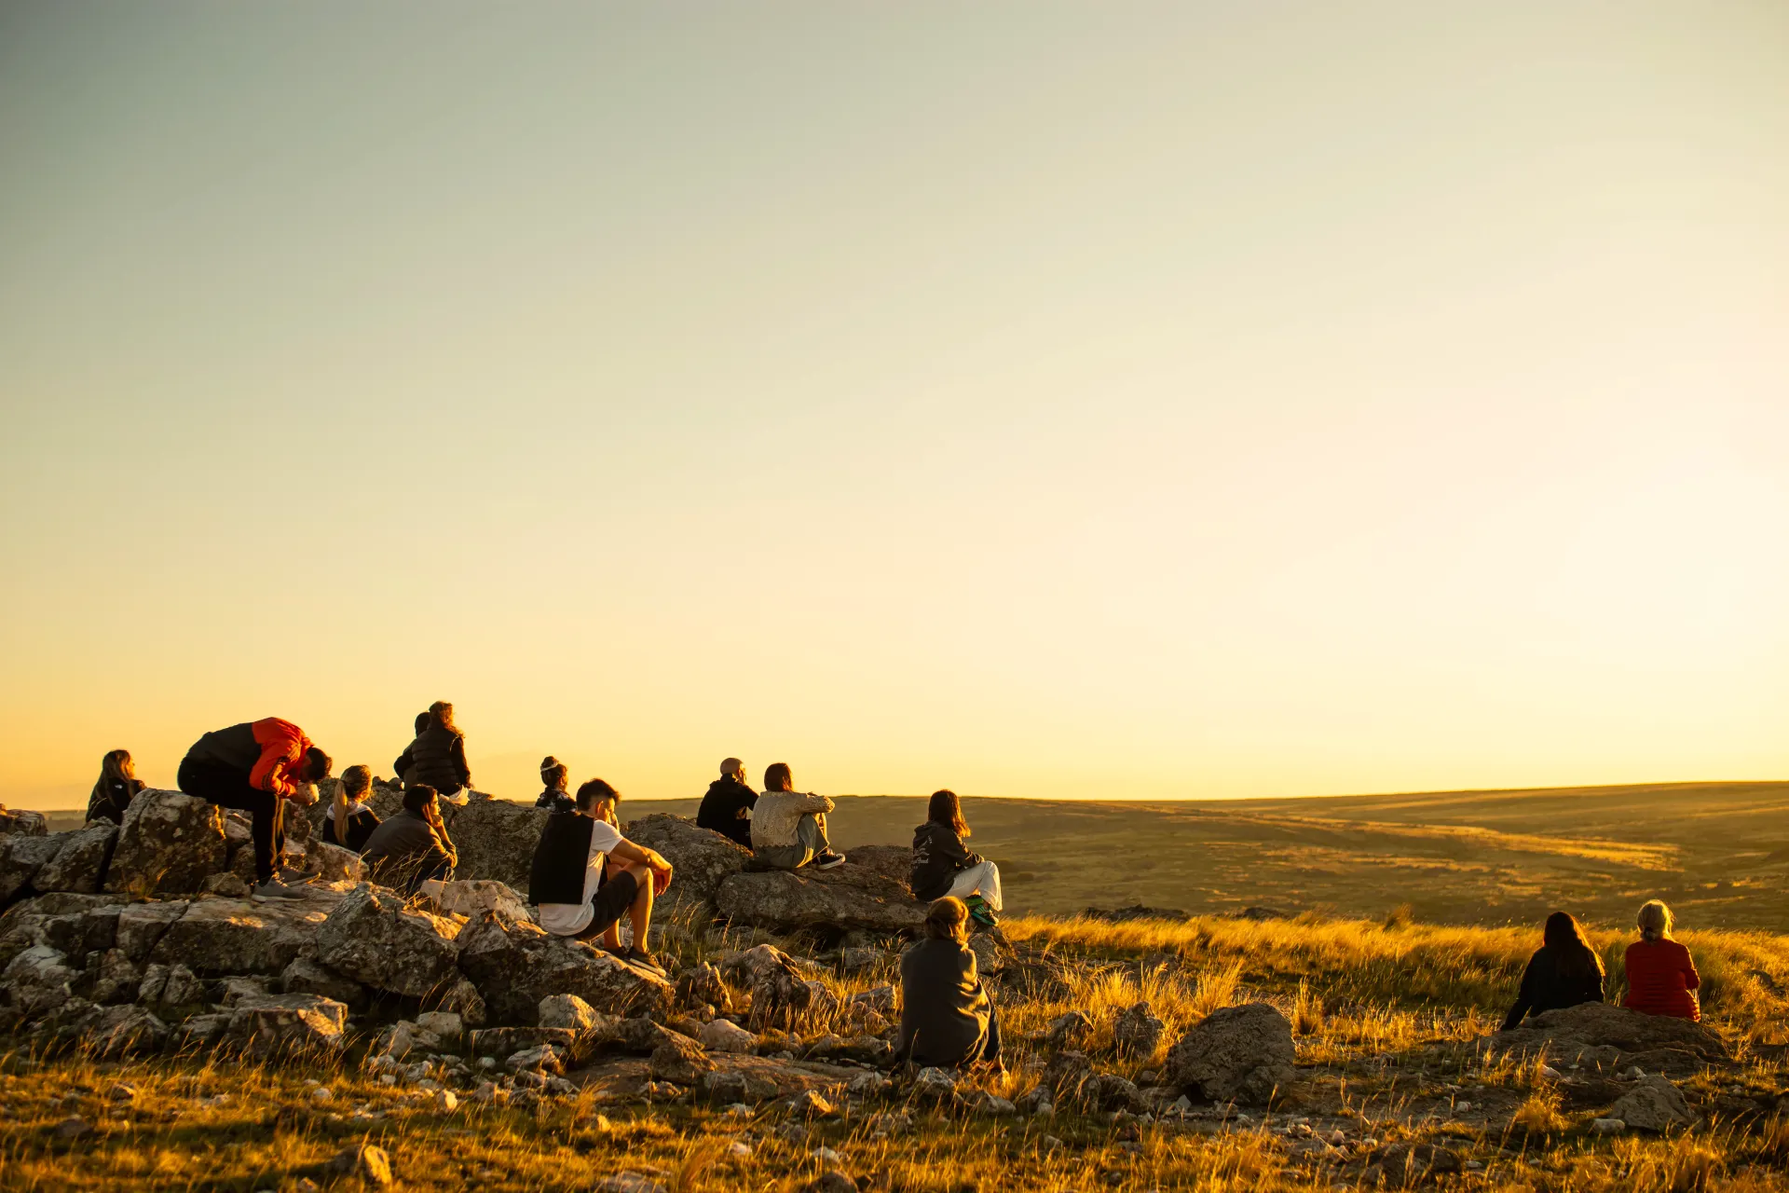
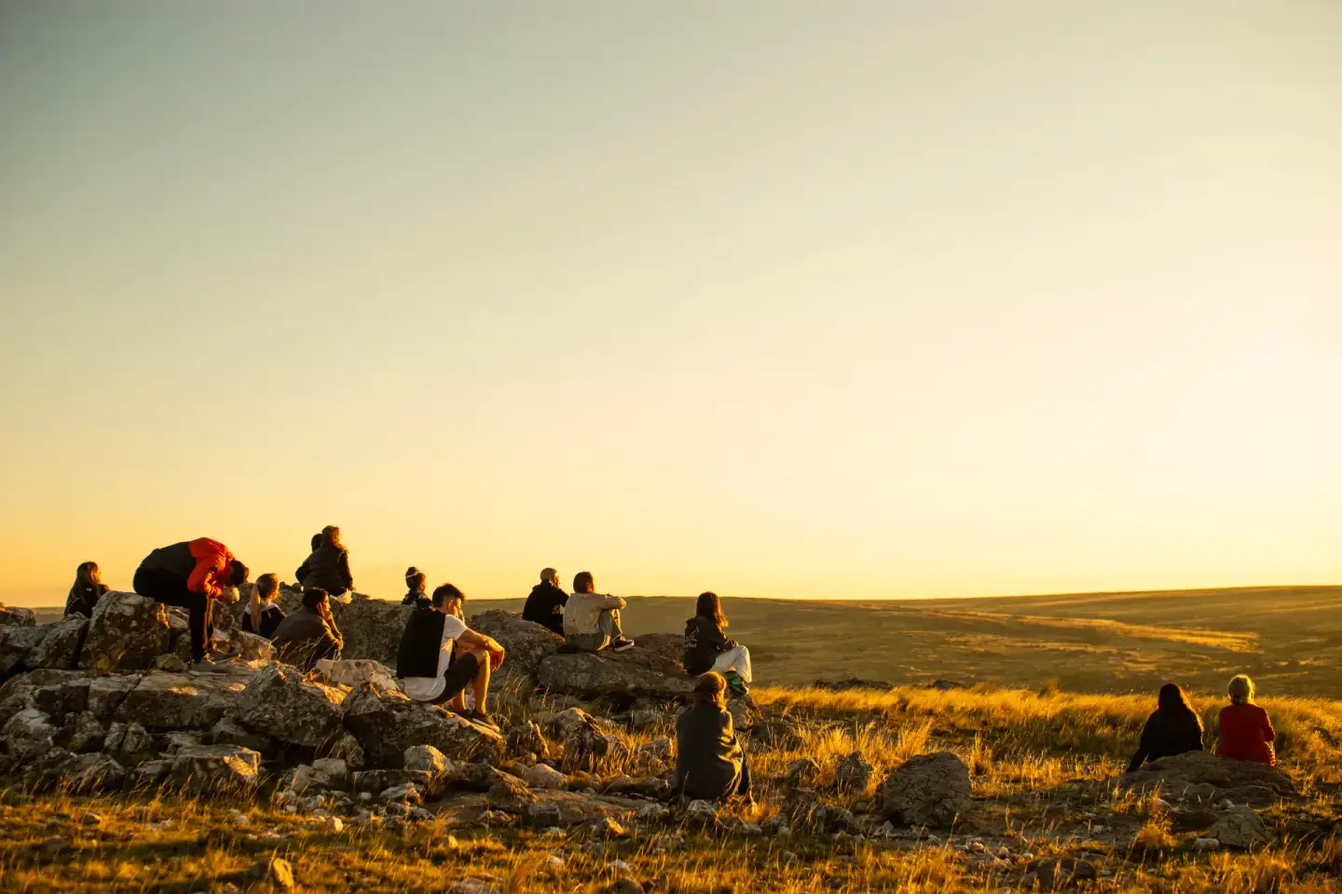
perf/a11y: Accessibility 100, Best Practices 100, Performance 88-93
Accessibility fixes (96 → 100):
- Fix color-contrast: text-gold on white/bone → text-[#8B6914] (5:1) or text-brand (13:1)
- Fix text-brand/60 (3.3:1) → text-brand/80 (5:1) on white sections
- Fix submit button bg-gold text-white (2.1:1) → bg-brand text-white (13:1)
- Fix footer text-gray-400 (2.5:1) → text-gray-500/600; contact text-dark/60 → /80
- Fix donation button: border-gold text-gold → border-brand text-brand
- Fix strong elements in data.json: class='text-gold' → class='text-[#8B6914]'

Best Practices 100:
- Replace all youtube.com/embed with youtube-nocookie.com in 13 files + data.json

Performance improvements:
- Hero(3).webp: 178KB → 74KB compression
- Header: remove window.innerWidth in render (forced reflow) → isMobile state
- Main.tsx: defer below-fold sections via requestIdleCallback (TBT 350ms → 100ms)
- index.html: inline critical CSS for #heroSec to ensure hero paints before full CSS
- Footer logo: external tawaapukuntur.com URL → local /uploads/logo negro.svg + dimensions

diff --git a/components/Footer.tsx b/components/Footer.tsx
@@ -14,8 +14,10 @@ export const Footer: React.FC = () => {
           {/* Brand Column */}
           <div className="space-y-6">
             <img
-              src="https://tawaapukuntur.com/wp-content/uploads/2025/10/logotipo-marron-magico.svg"
+              src="/uploads/logo negro.svg"
               alt="Mágico Ensueño"
+              width="160"
+              height="40"
               className="h-10 opacity-90"
             />
             <p className="text-gray-500 leading-relaxed font-light text-base max-w-xs">
@@ -36,10 +38,10 @@ export const Footer: React.FC = () => {
 
           {/* Explore Column */}
           <div>
-            <h4 className="text-brand-green font-serif text-xl mb-8 relative inline-block">
+            <h3 className="text-brand-green font-serif text-xl mb-8 relative inline-block">
               {t.footer.titles.explore}
               <span className="absolute -bottom-2 left-0 w-8 h-px bg-brand-gold"></span>
-            </h4>
+            </h3>
             <ul className="space-y-4">
               {t.menu.items.map((item: any, index: number) => (
                 <li key={index}>
@@ -54,10 +56,10 @@ export const Footer: React.FC = () => {
 
           {/* Experiences Column */}
           <div>
-            <h4 className="text-brand-green font-serif text-xl mb-8 relative inline-block">
+            <h3 className="text-brand-green font-serif text-xl mb-8 relative inline-block">
               {t.footer.titles.experiences}
               <span className="absolute -bottom-2 left-0 w-8 h-px bg-brand-gold"></span>
-            </h4>
+            </h3>
             <ul className="space-y-4">
               {t.footer.experienceLinks.map((link: any, index: number) => (
                 <li key={index}>
@@ -72,22 +74,22 @@ export const Footer: React.FC = () => {
 
           {/* Contact Column */}
           <div>
-            <h4 className="text-brand-green font-serif text-xl mb-8 relative inline-block">
+            <h3 className="text-brand-green font-serif text-xl mb-8 relative inline-block">
               Contacto
               <span className="absolute -bottom-2 left-0 w-8 h-px bg-brand-gold"></span>
-            </h4>
+            </h3>
             <ul className="space-y-5">
-              <li className="flex items-start gap-3 text-gray-500">
+              <li className="flex items-start gap-3 text-gray-600">
                 <MapPin size={18} weight="light" className="text-brand-gold mt-1 flex-shrink-0" />
                 <span className="text-sm font-light leading-relaxed">Los Gigantes, Sierras Grandes,<br/>Córdoba, Argentina</span>
               </li>
-              <li className="flex items-center gap-3 text-gray-500">
+              <li className="flex items-center gap-3 text-gray-600">
                 <Phone size={18} weight="light" className="text-brand-gold flex-shrink-0" />
                 <a href={`tel:${t.contact.labels.phone}`} className="text-sm font-light hover:text-brand-gold transition-colors">
                   {t.contact.labels.phone}
                 </a>
               </li>
-              <li className="flex items-center gap-3 text-gray-500">
+              <li className="flex items-center gap-3 text-gray-600">
                 <Envelope size={18} weight="light" className="text-brand-gold flex-shrink-0" />
                 <a href={`mailto:${t.contact.labels.email}`} className="text-sm font-light hover:text-brand-gold transition-colors">
                   {t.contact.labels.email}
@@ -99,7 +101,7 @@ export const Footer: React.FC = () => {
 
         {/* Bottom Bar */}
         <div className="pt-10 border-t border-gray-100 flex flex-col md:flex-row justify-between items-center gap-6">
-          <div className="text-xs text-gray-400 font-light flex flex-col md:flex-row items-center gap-2 md:gap-4">
+          <div className="text-xs text-gray-500 font-light flex flex-col md:flex-row items-center gap-2 md:gap-4">
             <span>&copy; {currentYear} {t.footer.copyright}</span>
             <span className="hidden md:block w-1 h-1 rounded-full bg-gray-200"></span>
             <div className="flex gap-4">
@@ -108,7 +110,7 @@ export const Footer: React.FC = () => {
             </div>
           </div>
           <div className="flex items-center gap-2">
-            <span className="text-xs text-gray-400 italic">{t.footer.madeBy}</span>
+            <span className="text-xs text-gray-500 italic">{t.footer.madeBy}</span>
             <span className="text-[10px] uppercase tracking-widest text-brand-green/40 font-bold ml-2">by Catálisis</span>
           </div>
         </div>

diff --git a/components/Header.tsx b/components/Header.tsx
@@ -1,18 +1,26 @@
 import React, { useState, useEffect } from 'react';
 import { Menu, X, ChevronDown } from 'lucide-react';
 import { useLanguage } from '../contexts/LanguageContext';
-import { useLocation, useNavigate } from 'react-router-dom';
+import { useLocation } from 'react-router-dom';
 
 export const Header: React.FC = () => {
   const [isScrolled, setIsScrolled] = useState(false);
   const [isMobileMenuOpen, setIsMobileMenuOpen] = useState(false);
   const [activeSubmenu, setActiveSubmenu] = useState<number | null>(null);
   const [activeSection, setActiveSection] = useState<string>('');
+  const [isMobile, setIsMobile] = useState(false);
   const { language, toggleLanguage, t } = useLanguage();
   const location = useLocation();
-  const navigate = useNavigate();
 
   const isHomePage = location.pathname === '/';
+
+  useEffect(() => {
+    const mq = window.matchMedia('(max-width: 1023px)');
+    setIsMobile(mq.matches);
+    const handler = (e: MediaQueryListEvent) => setIsMobile(e.matches);
+    mq.addEventListener('change', handler);
+    return () => mq.removeEventListener('change', handler);
+  }, []);
 
   // Scroll effect for header styling
   useEffect(() => {
@@ -70,7 +78,7 @@ export const Header: React.FC = () => {
 
   const handleNavClick = (e: React.MouseEvent<HTMLAnchorElement>, href: string, hasSubmenu: boolean, index: number) => {
     // Mobile: Toggle submenu if it exists
-    if (window.innerWidth < 1024 && hasSubmenu) {
+    if (isMobile && hasSubmenu) {
       e.preventDefault();
       setActiveSubmenu(activeSubmenu === index ? null : index);
       return;
@@ -130,8 +138,10 @@ export const Header: React.FC = () => {
           }
         }}>
           <img
-            src="https://tawaapukuntur.com/wp-content/uploads/2025/10/logotipo-marron-magico.svg"
+            src="/uploads/logo negro.svg"
             alt="Mágico Ensueño"
+            width="900"
+            height="900"
             className={logoClasses}
           />
         </a>
@@ -172,7 +182,7 @@ export const Header: React.FC = () => {
                     ${isScrolled || isMobileMenuOpen 
                       ? (isLinkActive(item.href) ? 'text-gold font-bold' : 'text-dark hover:text-brand') 
                       : (isLinkActive(item.href) ? 'text-gold' : 'text-white hover:text-gold')}
-                    ${window.innerWidth < 1024 && !isLinkActive(item.href) ? 'text-[#444]' : ''}
+                    ${isMobile && !isLinkActive(item.href) ? 'text-[#444]' : ''}
                   `}
                 >
                   {item.label}

diff --git a/src/components/GondorbowsMagico.tsx b/src/components/GondorbowsMagico.tsx
@@ -30,7 +30,7 @@ const GondorbowsMagico: React.FC = () => {
             <div className="relative w-full aspect-[9/16] rounded-xl overflow-hidden shadow-2xl border border-white/10 bg-black">
               <iframe
                 className="w-full h-full"
-                src="https://www.youtube.com/embed/hxE7Ksy7IsY?autoplay=1&mute=1&loop=1&playlist=hxE7Ksy7IsY"
+                src="https://www.youtube-nocookie.com/embed/hxE7Ksy7IsY?autoplay=1&mute=1&loop=1&playlist=hxE7Ksy7IsY"
                 title="Mágico Ensueño - Experiencia en la Montaña"
                 frameBorder="0"
                 allow="accelerometer; autoplay; clipboard-write; encrypted-media; gyroscope; picture-in-picture"
@@ -104,7 +104,7 @@ const GondorbowsMagico: React.FC = () => {
           <div className="bg-white rounded-2xl overflow-hidden shadow-lg">
             <div className="relative w-full" style={{ paddingTop: '56.25%' }}>
               <iframe 
-                src="https://www.youtube.com/embed/o3m_A68JC0M" 
+                src="https://www.youtube-nocookie.com/embed/o3m_A68JC0M" 
                 frameBorder="0" 
                 allow="accelerometer; autoplay; clipboard-write; encrypted-media; gyroscope; picture-in-picture; web-share"
                 allowFullScreen
@@ -118,7 +118,7 @@ const GondorbowsMagico: React.FC = () => {
           <div className="bg-white rounded-2xl overflow-hidden shadow-lg">
             <div className="relative w-full" style={{ paddingTop: '56.25%' }}>
               <iframe 
-                src="https://www.youtube.com/embed/JtkYFlsBEW8" 
+                src="https://www.youtube-nocookie.com/embed/JtkYFlsBEW8" 
                 frameBorder="0" 
                 allow="accelerometer; autoplay; clipboard-write; encrypted-media; gyroscope; picture-in-picture; web-share"
                 allowFullScreen
@@ -132,7 +132,7 @@ const GondorbowsMagico: React.FC = () => {
           <div className="bg-white rounded-2xl overflow-hidden shadow-lg">
             <div className="relative w-full" style={{ paddingTop: '56.25%' }}>
               <iframe 
-                src="https://www.youtube.com/embed/rkgQ2e-gEco" 
+                src="https://www.youtube-nocookie.com/embed/rkgQ2e-gEco" 
                 frameBorder="0" 
                 allow="accelerometer; autoplay; clipboard-write; encrypted-media; gyroscope; picture-in-picture; web-share"
                 allowFullScreen

diff --git a/src/components/GondorbowsPrecios.tsx b/src/components/GondorbowsPrecios.tsx
@@ -25,7 +25,7 @@ const GondorbowsPrecios: React.FC = () => {
             <div className="bg-stone-800 rounded-2xl border border-stone-700/50 shadow-2xl overflow-hidden hover:shadow-yellow-500/10 hover:-translate-y-1 transition-all duration-300 group">
               <div className="relative aspect-[9/16] w-full">
                 <iframe
-                  src="https://www.youtube.com/embed/uQy7HgK-L_E"
+                  src="https://www.youtube-nocookie.com/embed/uQy7HgK-L_E"
                   className="absolute inset-0 w-full h-full"
                   frameBorder="0"
                   allow="accelerometer; autoplay; clipboard-write; encrypted-media; gyroscope; picture-in-picture; web-share"
@@ -40,7 +40,7 @@ const GondorbowsPrecios: React.FC = () => {
             <div className="bg-stone-800 rounded-2xl border border-stone-700/50 shadow-2xl overflow-hidden hover:shadow-yellow-500/10 hover:-translate-y-1 transition-all duration-300 group">
               <div className="relative aspect-[9/16] w-full">
                 <iframe
-                  src="https://www.youtube.com/embed/4pQ2DTh2rd8"
+                  src="https://www.youtube-nocookie.com/embed/4pQ2DTh2rd8"
                   className="absolute inset-0 w-full h-full"
                   frameBorder="0"
                   allow="accelerometer; autoplay; clipboard-write; encrypted-media; gyroscope; picture-in-picture; web-share"
@@ -55,7 +55,7 @@ const GondorbowsPrecios: React.FC = () => {
             <div className="bg-stone-800 rounded-2xl border border-stone-700/50 shadow-2xl overflow-hidden hover:shadow-yellow-500/10 hover:-translate-y-1 transition-all duration-300 group">
               <div className="relative aspect-[9/16] w-full">
                 <iframe
-                  src="https://www.youtube.com/embed/wRamh8nZXNQ"
+                  src="https://www.youtube-nocookie.com/embed/wRamh8nZXNQ"
                   className="absolute inset-0 w-full h-full"
                   frameBorder="0"
                   allow="accelerometer; autoplay; clipboard-write; encrypted-media; gyroscope; picture-in-picture; web-share"

diff --git a/Main.tsx b/Main.tsx
@@ -1,4 +1,4 @@
-import React, { useEffect } from 'react';
+import React, { useEffect, useState } from 'react';
 import { LanguageProvider } from './contexts/LanguageContext';
 import { Header } from './components/Header';
 import { Hero } from './components/Hero';
@@ -16,7 +16,16 @@ import { SectionContacto } from './components/SectionContacto';
 import { Footer } from './components/Footer';
 import { WhatsAppButton } from './components/WhatsAppButton';
 
+const win: any = typeof window !== 'undefined' ? window : {};
+const scheduleIdle = win.requestIdleCallback || ((cb: () => void) => setTimeout(cb, 200));
+
 const Main: React.FC = () => {
+  const [belowFoldReady, setBelowFoldReady] = useState(false);
+
+  useEffect(() => {
+    scheduleIdle(() => setBelowFoldReady(true));
+  }, []);
+
   useEffect(() => {
     const TITLE = 'Mágico Ensueño — Eco‑Refugio & Glamping · Los Gigantes, Córdoba';
     const DESC  = 'Ecocentro en Sierras Grandes de Córdoba: retiros, co-living, glamping en domos y yurta, voluntariados y cocina de autor. 20 años regenerando la montaña.';
@@ -118,16 +127,18 @@ const Main: React.FC = () => {
           <SectionNosotros />
           <SectionPilares />
           <SectionVideo />
-          <SectionExperiencias />
-          <SectionEventos />
-          <SectionRetiros />
-          <SectionEscuelas />
-          <SectionVoluntariados />
-          <SectionTestimonios />
-          <SectionComoLlegar />
-          <SectionContacto />
+          {belowFoldReady && <>
+            <SectionExperiencias />
+            <SectionEventos />
+            <SectionRetiros />
+            <SectionEscuelas />
+            <SectionVoluntariados />
+            <SectionTestimonios />
+            <SectionComoLlegar />
+            <SectionContacto />
+          </>}
         </main>
-        <Footer />
+        {belowFoldReady && <Footer />}
         <WhatsAppButton />
       </div>
     </LanguageProvider>

diff --git a/src/Familion.tsx b/src/Familion.tsx
@@ -144,7 +144,7 @@ const Familion: React.FC = () => {
                 <iframe
                   width="360"
                   height="640"
-                  src="https://www.youtube.com/embed/Sqc7zbR-sPQ"
+                  src="https://www.youtube-nocookie.com/embed/Sqc7zbR-sPQ"
                   title="Familion - Una invitación"
                   loading="lazy"
                   frameBorder="0"
@@ -357,7 +357,7 @@ const Familion: React.FC = () => {
                   <iframe
                     width="360"
                     height="640"
-                    src="https://www.youtube.com/embed/IfMqF4oW_fM"
+                    src="https://www.youtube-nocookie.com/embed/IfMqF4oW_fM"
                     title="Testimonios Familion - Parte 1"
                     frameBorder="0"
                     allow="accelerometer; autoplay; clipboard-write; encrypted-media; gyroscope; picture-in-picture;"
@@ -371,7 +371,7 @@ const Familion: React.FC = () => {
                   <iframe
                     width="360"
                     height="640"
-                    src="https://www.youtube.com/embed/wVNmRkIj0-o"
+                    src="https://www.youtube-nocookie.com/embed/wVNmRkIj0-o"
                     title="Testimonios Familion - Parte 2"
                     frameBorder="0"
                     allow="accelerometer; autoplay; clipboard-write; encrypted-media; gyroscope; picture-in-picture;"
@@ -419,7 +419,7 @@ const Familion: React.FC = () => {
               <iframe
                 width="360"
                 height="640"
-                src="https://www.youtube.com/embed/QqGrzFloHsE"
+                src="https://www.youtube-nocookie.com/embed/QqGrzFloHsE"
                 title="Familion - Agradecimiento por la comida"
                 frameBorder="0"
                 allow="accelerometer; autoplay; clipboard-write; encrypted-media; gyroscope; picture-in-picture;"

diff --git a/components/SectionExperiencias.tsx b/components/SectionExperiencias.tsx
@@ -40,7 +40,7 @@ export const SectionExperiencias: React.FC = () => {
               {t.experiences.resetVital.title}
             </h3>
             <div 
-              className="text-dark/80 mb-10 font-light leading-relaxed text-lg max-w-4xl [&_strong]:text-gold [&_strong]:font-medium"
+              className="text-dark/80 mb-10 font-light leading-relaxed text-lg max-w-4xl [&_strong]:text-[#8B6914] [&_strong]:font-medium"
               dangerouslySetInnerHTML={{ __html: marked.parse(t.experiences.resetVital.description as string) as string }}
             />
             
@@ -60,7 +60,7 @@ export const SectionExperiencias: React.FC = () => {
 
         {/* Cards Section */}
         <div className="text-center mb-10">
-          <span className="text-brand/60 font-bold tracking-widest uppercase text-xs">
+          <span className="text-brand/80 font-bold tracking-widest uppercase text-xs">
             PERSONALIZÁ TU ESTADÍA
           </span>
         </div>
@@ -85,7 +85,7 @@ export const SectionExperiencias: React.FC = () => {
                   {card.description}
                   {isEcoRefugio && ` ${(t.experiences as any).card_extra_text}`}
                 </p>
-                <a href={card.ctaLink} target="_blank" rel="noopener noreferrer" className="text-gold font-bold uppercase text-xs tracking-wider hover:text-brand transition-colors">
+                <a href={card.ctaLink} target="_blank" rel="noopener noreferrer" className="text-[#8B6914] font-bold uppercase text-xs tracking-wider hover:text-brand transition-colors">
                   {card.ctaText}
                 </a>
               </div>

diff --git a/components/SectionContacto.tsx b/components/SectionContacto.tsx
@@ -117,7 +117,7 @@ export const SectionContacto = () => {
                   w-full md:w-auto px-12 py-4 rounded-full text-sm font-bold uppercase tracking-widest shadow-lg mt-4 flex items-center justify-center gap-2
                   ${status === 'success'
                     ? 'bg-green-600 text-white cursor-default'
-                    : 'bg-gold text-white hover:bg-brand disabled:opacity-70 disabled:cursor-not-allowed transition-[background-color,opacity] duration-300'}
+                    : 'bg-brand text-white hover:bg-gold disabled:opacity-70 disabled:cursor-not-allowed transition-[background-color,opacity] duration-300'}
                 `}
               >
                 {status === 'submitting' ? (
@@ -147,7 +147,7 @@ export const SectionContacto = () => {
           </form>
         </div>
 
-        <div className="mt-16 grid md:grid-cols-3 gap-8 text-center text-dark/60 text-sm">
+        <div className="mt-16 grid md:grid-cols-3 gap-8 text-center text-dark/80 text-sm">
           <div>
             <p className="font-bold text-brand mb-1 font-serif text-base">{t.contact.labels.email}</p>
             <a href="mailto:experienciamagico@gmail.com" className="hover:text-gold transition-colors font-light">

diff --git a/components/SectionVoluntariados.tsx b/components/SectionVoluntariados.tsx
@@ -28,7 +28,7 @@ export const SectionVoluntariados: React.FC = () => {
               dangerouslySetInnerHTML={{ __html: t.volunteer.title as string }}
             />
             <div 
-              className="text-charcoal/80 text-base leading-relaxed mb-10 font-light [&_strong]:text-gold [&_strong]:font-medium"
+              className="text-charcoal/80 text-base leading-relaxed mb-10 font-light [&_strong]:text-brand [&_strong]:font-medium"
               dangerouslySetInnerHTML={{ __html: marked.parse(t.volunteer.description as string) as string }}
             />
             <a
@@ -52,7 +52,7 @@ export const SectionVoluntariados: React.FC = () => {
 
         {/* Volunteer Testimonials Carousel */}
         <div className="mt-12">
-          <p className="text-center text-brand/60 font-bold tracking-widest uppercase text-xs mb-8">VOCES DE LA COMUNIDAD</p>
+          <p className="text-center text-brand/80 font-bold tracking-widest uppercase text-xs mb-8">VOCES DE LA COMUNIDAD</p>
           
           <div className="relative">
             <button 

diff --git a/src/AulaVerde.tsx b/src/AulaVerde.tsx
@@ -165,7 +165,7 @@ const AulaVerde: React.FC = () => {
                 <iframe
                   width="360"
                   height="640"
-                  src="https://www.youtube.com/embed/lLHk-lpRofE"
+                  src="https://www.youtube-nocookie.com/embed/lLHk-lpRofE"
                   title="Aprender desde la experiencia"
                   frameBorder="0"
                   allow="accelerometer; autoplay; clipboard-write; encrypted-media; gyroscope; picture-in-picture;"
@@ -340,7 +340,7 @@ const AulaVerde: React.FC = () => {
               <iframe
                 width="360"
                 height="640"
-                src="https://www.youtube.com/embed/_p6dA0v2Fcs"
+                src="https://www.youtube-nocookie.com/embed/_p6dA0v2Fcs"
                 title="Momentos que fortalecen al grupo"
                 frameBorder="0"
                 allow="accelerometer; autoplay; clipboard-write; encrypted-media; gyroscope; picture-in-picture;"

diff --git a/components/SectionEscuelas.tsx b/components/SectionEscuelas.tsx
@@ -18,7 +18,7 @@ export const SectionEscuelas: React.FC = () => {
             <div data-reveal className="order-2 lg:order-1">
               <div className="relative rounded-2xl overflow-hidden shadow-2xl h-80 md:h-[500px] bg-[#002B18] pointer-events-none group">
                 <iframe
-                  src="https://www.youtube.com/embed/R5c5r9dNR_M?autoplay=1&mute=1&controls=0&loop=1&playlist=R5c5r9dNR_M&modestbranding=1&showinfo=0&vq=hd1080&playsinline=1"
+                  src="https://www.youtube-nocookie.com/embed/R5c5r9dNR_M?autoplay=1&mute=1&controls=0&loop=1&playlist=R5c5r9dNR_M&modestbranding=1&showinfo=0&vq=hd1080&playsinline=1"
                   title="Video de Aula Verde — Mágico Ensueño"
                   frameBorder="0"
                   allow="autoplay; encrypted-media"

diff --git a/src/components/FamilionHero.tsx b/src/components/FamilionHero.tsx
@@ -7,7 +7,7 @@ const FamilionHero: React.FC = () => {
       {/* Background Video */}
       <div className="absolute inset-0 z-[0] w-full h-full overflow-hidden pointer-events-none bg-black">
         <iframe
-          src="https://www.youtube.com/embed/SlTNlO0Smog?autoplay=1&mute=1&loop=1&playlist=SlTNlO0Smog&controls=0&showinfo=0&rel=0&modestbranding=1&playsinline=1"
+          src="https://www.youtube-nocookie.com/embed/SlTNlO0Smog?autoplay=1&mute=1&loop=1&playlist=SlTNlO0Smog&controls=0&showinfo=0&rel=0&modestbranding=1&playsinline=1"
           className="absolute top-1/2 left-1/2 w-[100vw] h-[56.25vw] min-h-[100vh] min-w-[177.77vh] -translate-x-1/2 -translate-y-1/2 pointer-events-none"
           title="Video de fondo — Familion"
           allow="autoplay; encrypted-media"
